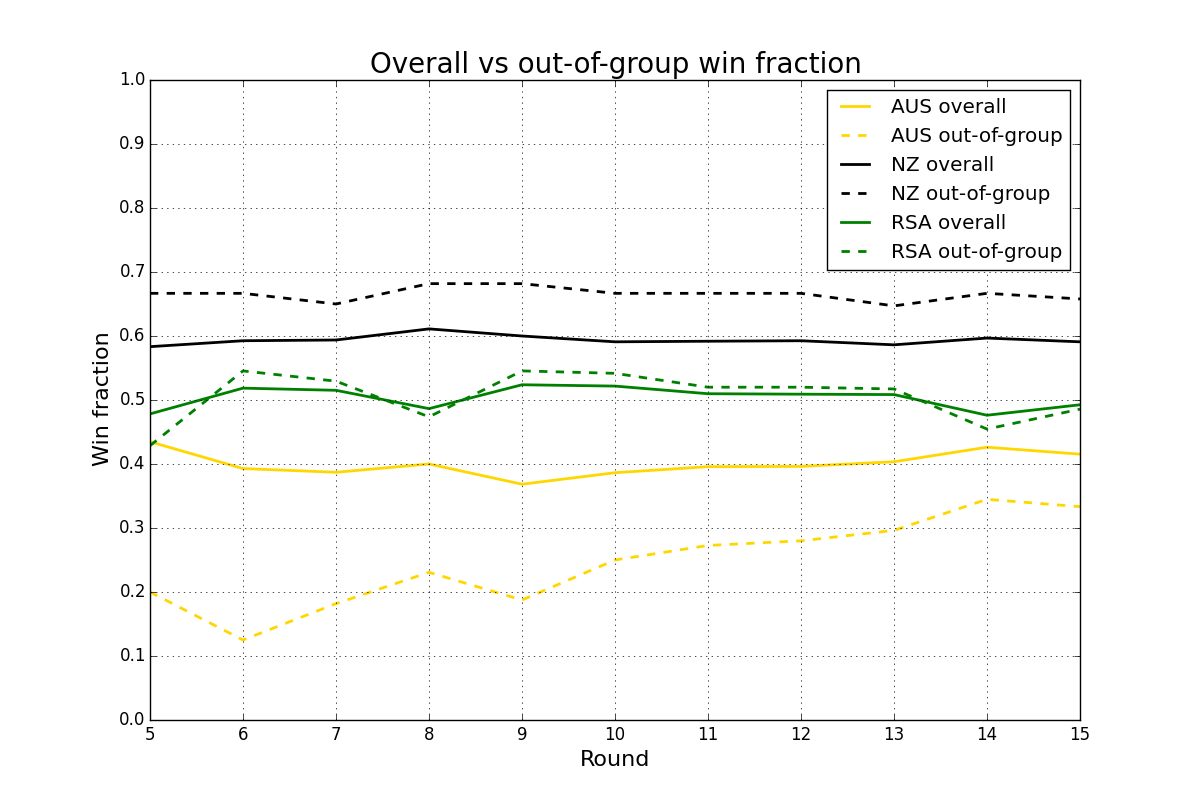
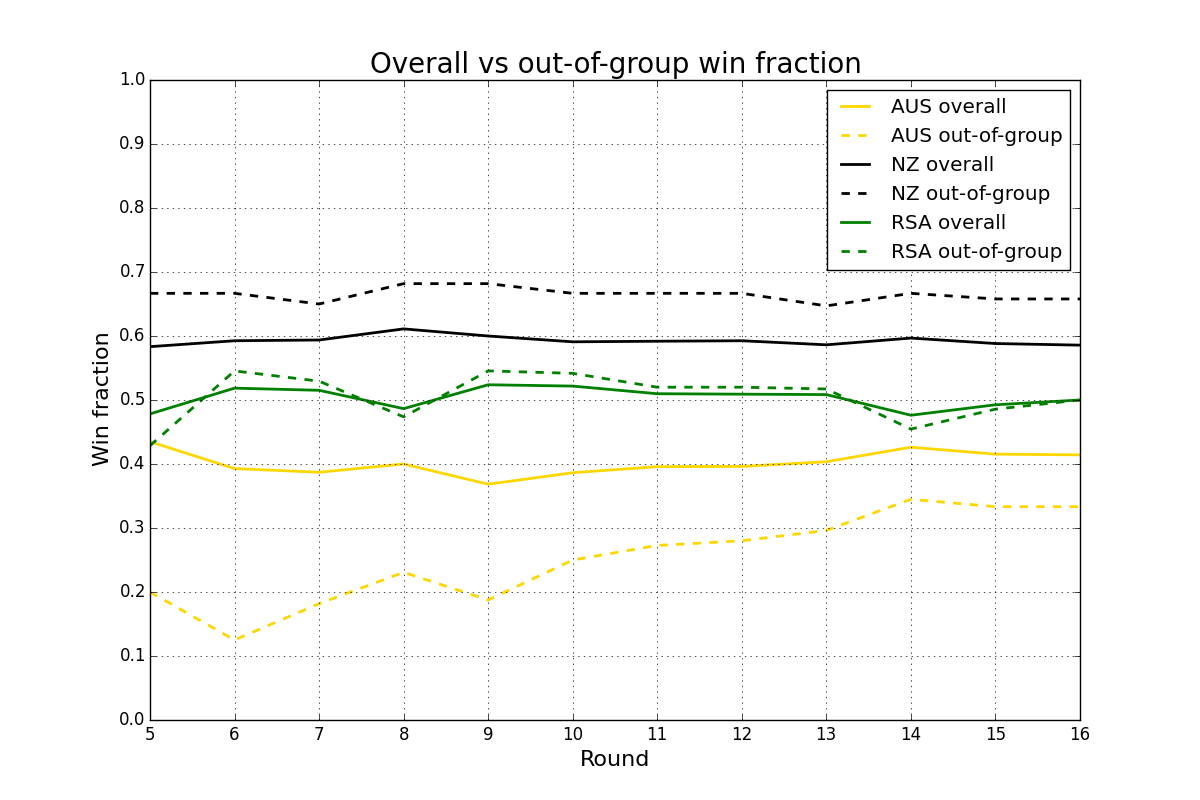
Updated to include round 16.

diff --git a/README.md b/README.md
@@ -15,11 +15,11 @@ I wrote a program to examine this.
 
 ## Results
 
-The results (see below) show that NZ group teams have won 39/66 (59%) of
+The results (see below) show that NZ group teams have won 41/70 (58.6%) of
 their games overall. But if you look at their record just in out-of-group
 games, the percentage goes up: they've won 25/38 (65.8%). In contrast,
-Australian group teams have won 27/65 (41.5%) of their games overall, but
-in out-of-group have won only 11/33 (33.3%).
+Australian group teams have won 29/70 (41.4%) of their games overall, but
+in out-of-group have won only 12/36 (33.3%).
 
 I.e., the Australian record is worse than it appears if you just consider
 their overall competition win/loss percentage.  Meanwhile, the NZ teams are
@@ -36,7 +36,7 @@ teams that are winning few games are much less likely to be picked for
 their national sides.
 
 The program's graphical and textual output (as of 2015-05-24, following
-Round 15) are shown below.
+Round 16) are shown below.
 
 The graph shows how the overall win fraction versus the out-of-group win
 fraction has changed over time for each of the countries. Only rounds 5
@@ -53,65 +53,59 @@ group. Some notes:
 * The team results table is not ordered by competition points, but by
 number of wins.
 
-* It's interesting to see that AUS teams are doing better against NZ teams (7
-wins out of 18) than they are against RSA teams (4 wins out of 15).
+* It's interesting to see that AUS teams are doing better against NZ teams
+(7 wins out of 18) than they are against RSA teams (5 wins out of 18).
 
-* RSA teams have won 11 out of 15 matches against AUS teams, but only 6
+* RSA teams have won 13 out of 18 matches against AUS teams, but only 6
 out of 20 against NZ teams.
 
-* It's also interesting to note that the NZ teams have played
-significantly more (38) out-of-group games than RSA (35) or AUS (33). The
-NZ teams are largely matched against each other in the remaining
-competition rounds.
-
-
 ```
-Results through round 15
+Results through round 16
 
                   Overall    vs AUS     vs NZ      vs RSA
 Team         P    W  L  D    W  L  D    W  L  D    W  L  D
- HUR (NZ) : 13   12  1  0    3  1  0    5  0  0    4  0  0
- CHF (NZ) : 13    9  4  0    2  1  0    4  2  0    3  1  0
- HIG (NZ) : 13    9  4  0    3  1  0    3  2  0    3  1  0
- STO (RSA): 13    9  4  0    4  0  0    1  3  0    4  1  0
- WAR (AUS): 13    9  4  0    5  2  0    3  1  0    1  1  0
- LIO (RSA): 14    8  6  0    2  1  0    2  2  0    4  3  0
- BRU (AUS): 13    7  6  0    4  3  0    1  2  0    2  1  0
- BUL (RSA): 13    7  6  0    2  0  0    1  3  0    4  3  0
- CRU (NZ) : 13    6  7  0    1  2  0    2  4  0    3  1  0
- REB (AUS): 13    6  7  0    3  4  0    3  1  0    0  2  0
- SHA (RSA): 14    5  9  0    2  1  0    1  3  0    2  5  0
- CHT (RSA): 13    4  9  0    1  2  0    1  3  0    2  4  0
- RED (AUS): 13    3 10  0    2  4  0    0  3  0    1  3  0
+ HUR (NZ) : 14   12  2  0    3  1  0    5  1  0    4  0  0
+ HIG (NZ) : 14   10  4  0    3  1  0    4  2  0    3  1  0
+ STO (RSA): 14   10  4  0    4  0  0    1  3  0    5  1  0
+ CHF (NZ) : 14    9  5  0    2  1  0    4  3  0    3  1  0
+ WAR (AUS): 14    9  5  0    5  2  0    3  1  0    1  2  0
+ LIO (RSA): 15    9  6  0    3  1  0    2  2  0    4  3  0
+ BRU (AUS): 14    8  6  0    4  3  0    1  2  0    3  1  0
+ BUL (RSA): 14    7  7  0    2  1  0    1  3  0    4  3  0
+ CRU (NZ) : 14    7  7  0    1  2  0    3  4  0    3  1  0
+ REB (AUS): 14    6  8  0    3  4  0    3  1  0    0  3  0
+ SHA (RSA): 15    6  9  0    3  1  0    1  3  0    2  5  0
+ CHT (RSA): 14    4 10  0    1  2  0    1  3  0    2  5  0
+ RED (AUS): 14    4 10  0    3  4  0    0  3  0    1  3  0
  BLU (NZ) : 14    3 11  0    2  2  0    0  6  0    1  3  0
- FOR (AUS): 13    2 11  0    2  3  0    0  4  0    0  4  0
+ FOR (AUS): 14    2 12  0    2  4  0    0  4  0    0  4  0
 
 AUS teams:
-  65 games played (33 vs other groups, 32 within group)
+  70 games played (36 vs other groups, 34 within group)
   vs NZ   W  L  D
           7 11  0
   vs RSA  W  L  D
-          4 11  0
-  Wins overall: 27/65 (41.54%)
-  Wins out-of-group: 11/33 (33.33%)
+          5 13  0
+  Wins overall: 29/70 (41.43%)
+  Wins out-of-group: 12/36 (33.33%)
 
 NZ  teams:
-  66 games played (38 vs other groups, 28 within group)
+  70 games played (38 vs other groups, 32 within group)
   vs AUS  W  L  D
          11  7  0
   vs RSA  W  L  D
          14  6  0
-  Wins overall: 39/66 (59.09%)
+  Wins overall: 41/70 (58.57%)
   Wins out-of-group: 25/38 (65.79%)
 
 RSA teams:
-  67 games played (35 vs other groups, 32 within group)
+  72 games played (38 vs other groups, 34 within group)
   vs AUS  W  L  D
-         11  4  0
+         13  5  0
   vs NZ   W  L  D
           6 14  0
-  Wins overall: 33/67 (49.25%)
-  Wins out-of-group: 17/35 (48.57%)
+  Wins overall: 36/72 (50.00%)
+  Wins out-of-group: 19/38 (50.00%)
 ```
 
 ## Technical stuff
